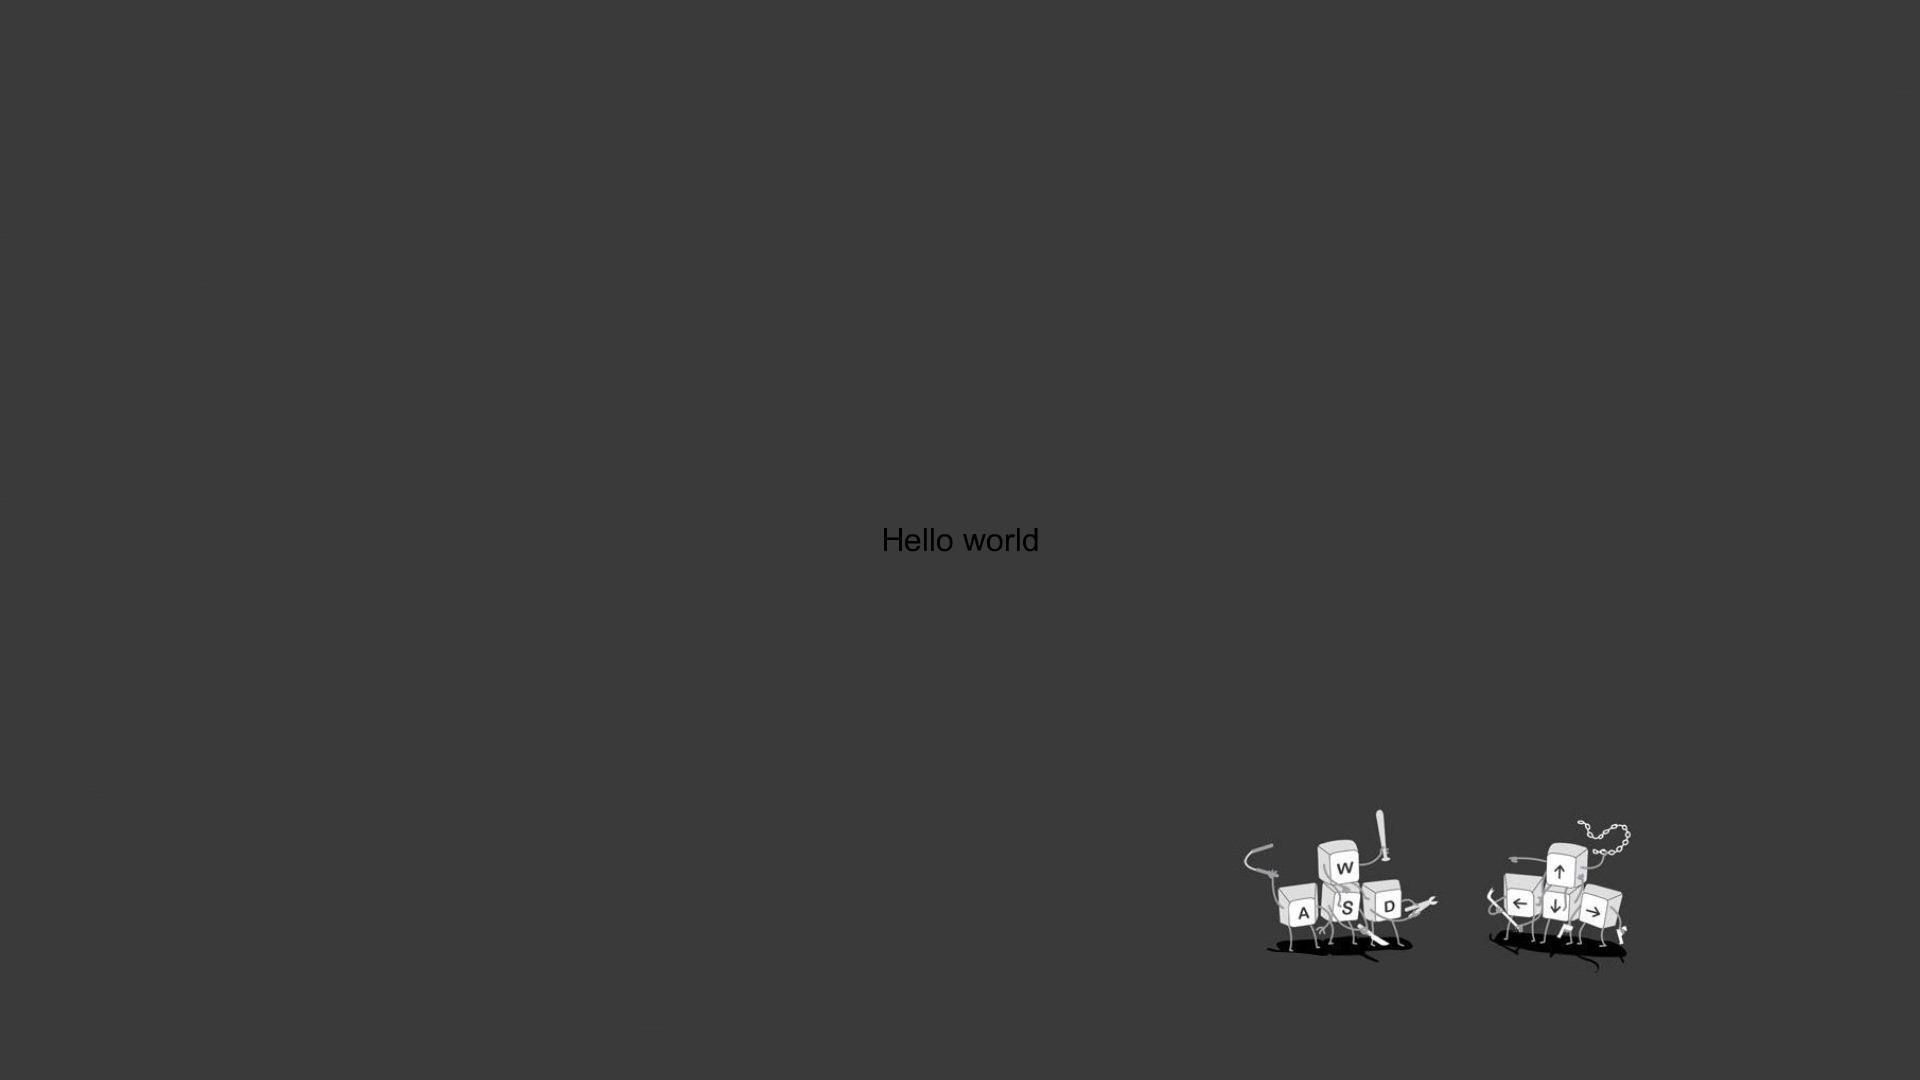
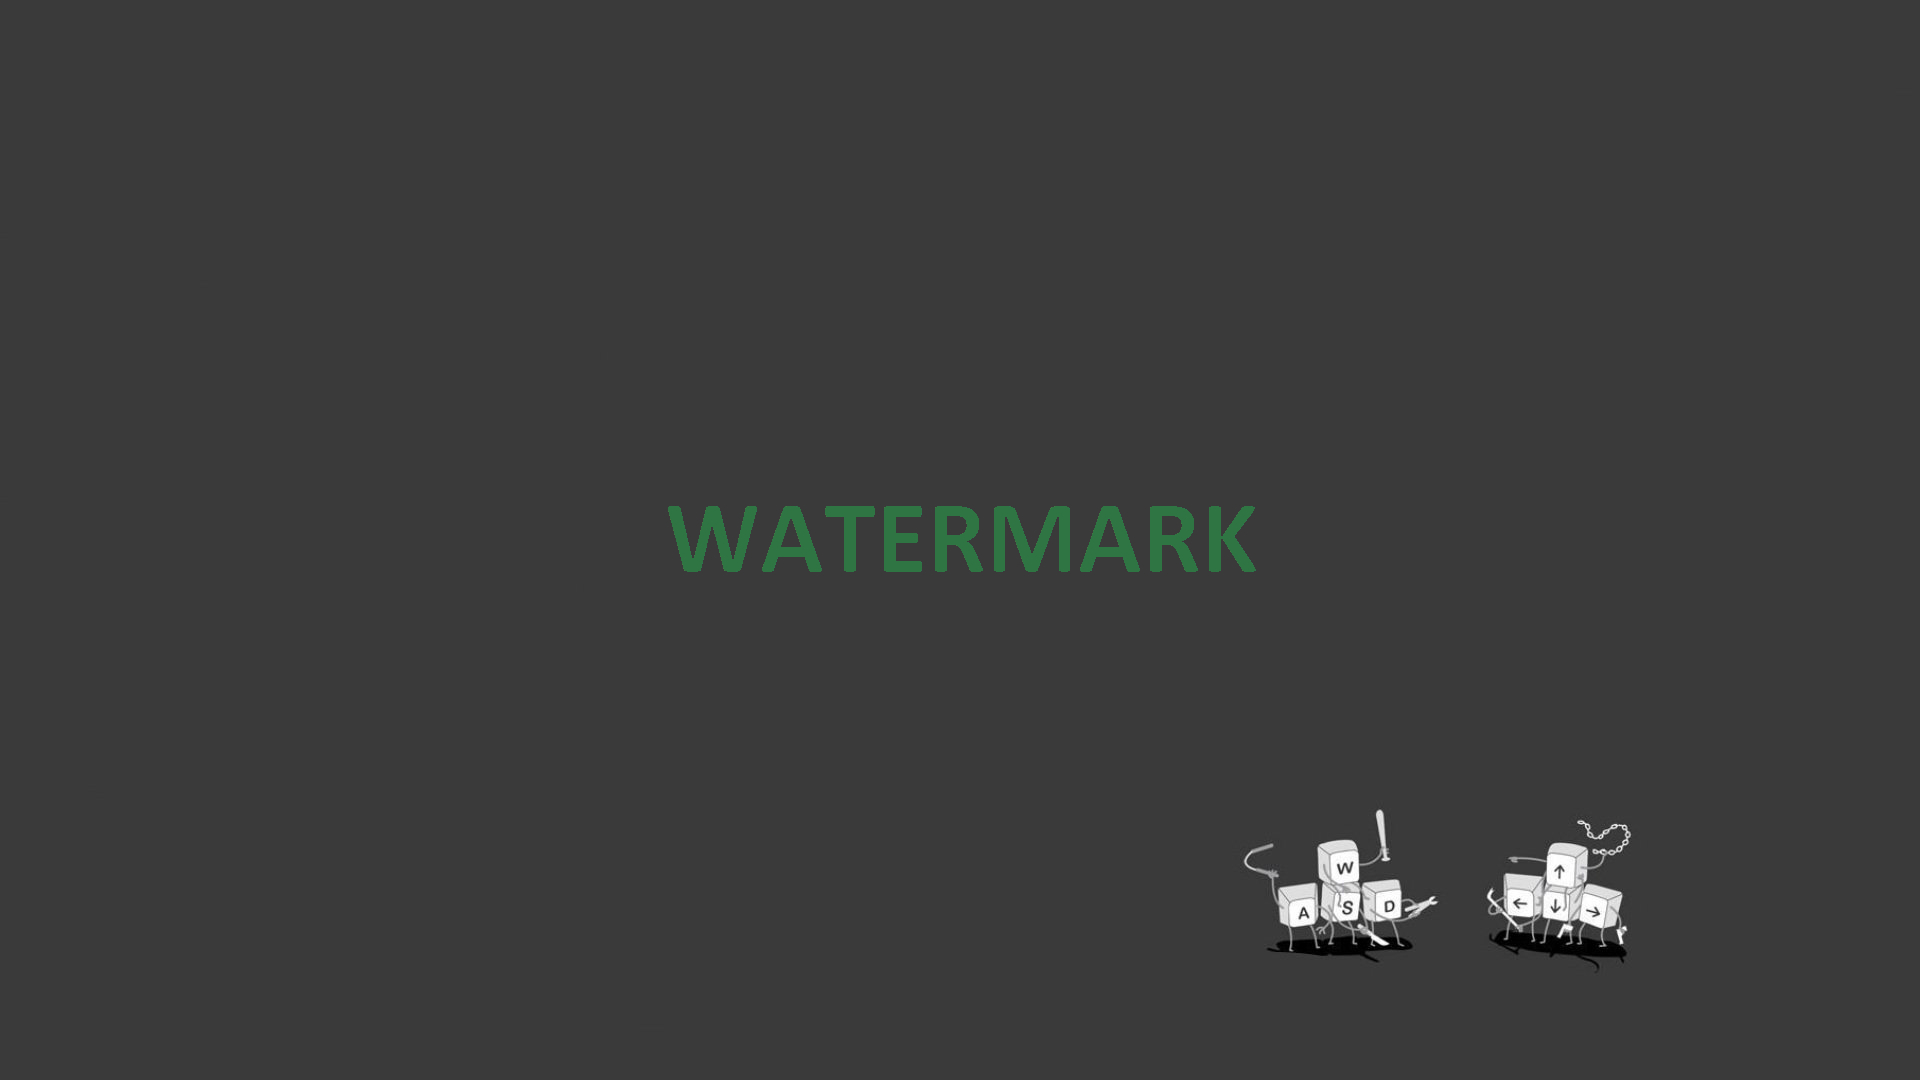
add communication with the user

Changed region(s): [[0.3438, 0.4583, 0.6562, 0.55]]

diff --git a/app.js b/app.js
@@ -1,6 +1,69 @@
 const Jimp = require('jimp');
 const inquirer = require('inquirer');
 
+const startApp = async () => {
+  // Ask if user is ready
+  const answer = await inquirer.prompt([
+    {
+      name: 'start',
+      message:
+        'Hi! Welcome to "Watermark manager". Copy your image files to `/img` folder. Then you\'ll be able to use them in the app. Are you ready?',
+      type: 'confirm'
+    }
+  ]);
+
+  // if answer is no, just quit the app
+  if (!answer.start) process.exit();
+
+  // ask about input file and watermark type
+  const options = await inquirer.prompt([
+    {
+      name: 'inputImage',
+      type: 'input',
+      message: 'What file do you want to mark?',
+      default: 'test.jpg'
+    },
+    {
+      name: 'watermarkType',
+      type: 'list',
+      choices: ['Text watermark', 'Image watermark']
+    }
+  ]);
+
+  if (options.watermarkType === 'Text watermark') {
+    const text = await inquirer.prompt([
+      {
+        name: 'value',
+        type: 'input',
+        message: 'Type your watermark text:'
+      }
+    ]);
+    options.watermarkText = text.value;
+    addTextWatermarkToImage(
+      './img/' + options.inputImage,
+      './test-with-watermark.jpg',
+      options.watermarkText
+    );
+  } else {
+    const image = await inquirer.prompt([
+      {
+        name: 'filename',
+        type: 'input',
+        message: 'Type your watermark name:',
+        default: 'watermark.png'
+      }
+    ]);
+    options.watermarkImage = image.filename;
+    addImageWatermarkToImage(
+      './img/' + options.inputImage,
+      './test-with-watermark.jpg',
+      './img/' + options.watermarkImage
+    );
+  }
+};
+
+startApp();
+
 const addTextWatermarkToImage = async function(inputFile, outputFile, text) {
   const image = await Jimp.read(inputFile);
   const font = await Jimp.loadFont(Jimp.FONT_SANS_32_BLACK);
@@ -13,12 +76,6 @@ const addTextWatermarkToImage = async function(inputFile, outputFile, text) {
   image.print(font, 0, 0, textData, image.getWidth(), image.getHeight());
   image.quality(100).write(outputFile);
 };
-
-addTextWatermarkToImage(
-  './test.jpg',
-  './test-with-watermark.jpg',
-  'Hello world'
-);
 
 const addImageWatermarkToImage = async function(
   inputFile,
@@ -36,9 +93,3 @@ const addImageWatermarkToImage = async function(
   });
   image.quality(100).write(outputFile);
 };
-
-addImageWatermarkToImage(
-  './test.jpg',
-  './test-with-watermark2.jpg',
-  './watermark.png'
-);
